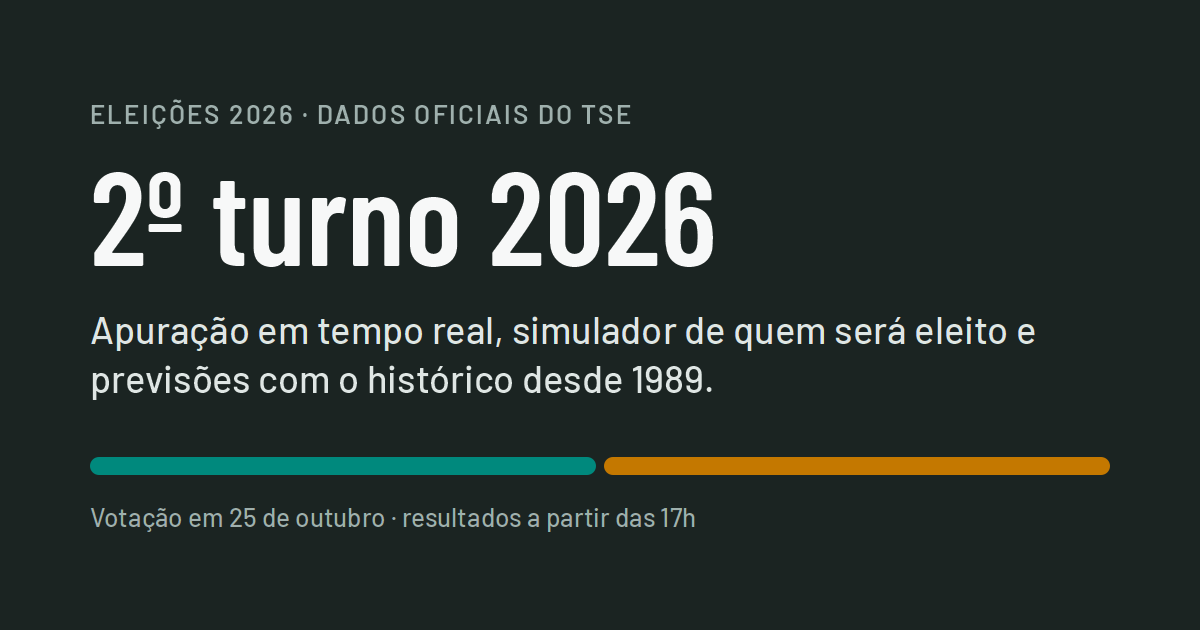
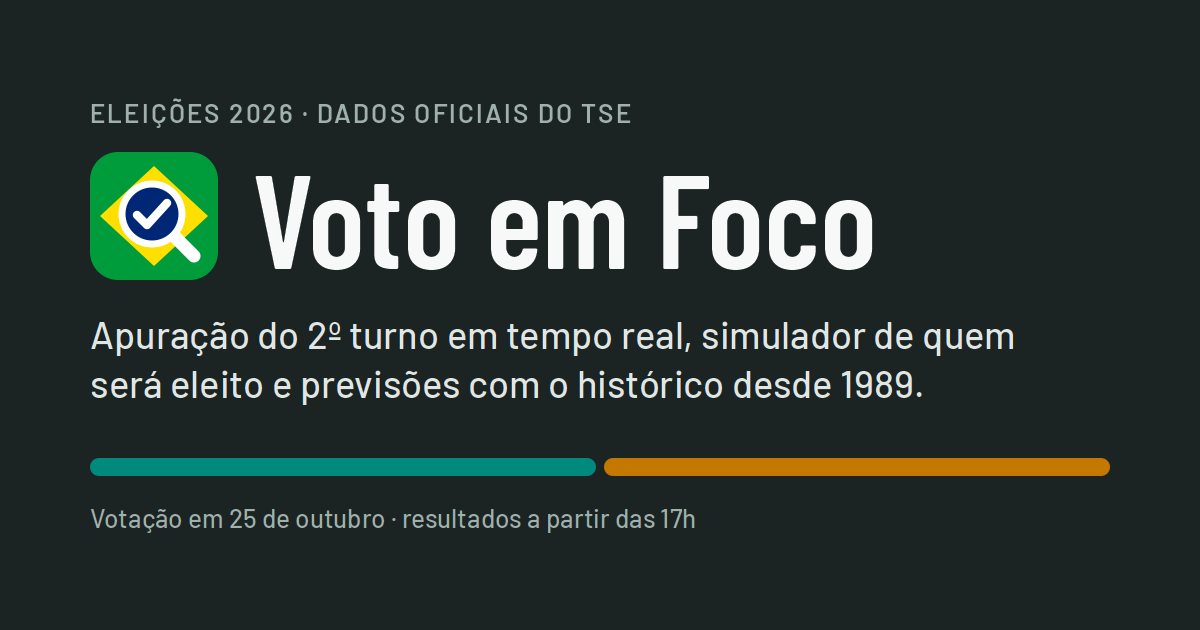
Nome Voto em Foco e ícone inspirado na bandeira (lupa com ✓ de voto)
Topo com ícone, aba, prévia de compartilhamento (og.png refeito), painel,
modo de teste, README, ícone da tela inicial do iPhone e serviço
voto-em-foco no Render. O ícone usa as cores da bandeira sem reproduzi-la.

diff --git a/public/index.html b/public/index.html
@@ -3,19 +3,20 @@
 <head>
   <meta charset="utf-8">
   <link rel="icon" href="/favicon.svg" type="image/svg+xml">
+  <link rel="apple-touch-icon" href="/icone-180.png">
   <meta name="viewport" content="width=device-width, initial-scale=1">
-  <title>2º turno 2026</title>
+  <title>Voto em Foco</title>
   <meta name="description" content="Apuração do 2º turno em tempo real, com dados oficiais do TSE, e simulador de quem será eleito.">
   <!-- Prévia ao compartilhar. {{URL}} vira o endereço público (PUBLIC_URL) quando o servidor entrega a página. -->
   <meta property="og:type" content="website">
   <meta property="og:locale" content="pt_BR">
-  <meta property="og:title" content="2º turno 2026: apuração em tempo real">
+  <meta property="og:title" content="Voto em Foco: apuração do 2º turno em tempo real">
   <meta property="og:description" content="Dados oficiais do TSE, simulador de quem será eleito e previsões com o histórico desde 1989.">
   <meta property="og:url" content="{{URL}}/">
   <meta property="og:image" content="{{URL}}/og.png">
   <meta property="og:image:width" content="1200">
   <meta property="og:image:height" content="630">
-  <meta property="og:image:alt" content="2º turno 2026: apuração em tempo real com dados oficiais do TSE">
+  <meta property="og:image:alt" content="Voto em Foco: apuração do 2º turno em tempo real com dados oficiais do TSE">
   <meta name="twitter:card" content="summary_large_image">
   <link rel="preload" href="/fonts/barlow-400-latin.woff2" as="font" type="font/woff2" crossorigin>
   <link rel="preload" href="/fonts/barlow-condensed-600-latin.woff2" as="font" type="font/woff2" crossorigin>
@@ -27,7 +28,7 @@
 
   <header class="topo">
     <div class="topo-linha">
-      <a class="nome-site" id="nome-site" href="#presidente">2º turno 2026</a>
+      <a class="nome-site" href="#presidente"><img src="/favicon.svg" alt="" width="34" height="34"><span id="nome-site">Voto em Foco</span></a>
       <nav class="vistas" aria-label="Seções">
         <a href="#presidente" data-vista="resultado">Resultado</a>
         <a href="#previsoes" data-vista="previsoes">Previsões</a>

diff --git a/public/styles.css b/public/styles.css
@@ -63,7 +63,8 @@ button, input, select { font: inherit; color: inherit; }
 .topo, main, .rodape { max-width: 1180px; margin: 0 auto; padding-left: var(--e4); padding-right: var(--e4); }
 .topo { padding-top: var(--e4); }
 .topo-linha { display: flex; align-items: center; gap: var(--e3); flex-wrap: wrap; }
-.nome-site { font: 600 30px/1 var(--num); text-decoration: none; margin-right: auto; }
+.nome-site { font: 600 30px/1 var(--num); text-decoration: none; margin-right: auto; display: inline-flex; align-items: center; gap: 10px; color: inherit; }
+.nome-site img { width: 34px; height: 34px; flex: none; }
 .vistas { display: flex; gap: var(--e3); }
 .vistas a { text-decoration: none; color: var(--tinta-2); font-weight: 500; padding: 6px 0; border-bottom: 2px solid transparent; }
 .vistas a[aria-current="page"] { color: var(--tinta); border-bottom-color: var(--tinta); }

diff --git a/src/server.js b/src/server.js
@@ -142,7 +142,7 @@ data: ${JSON.stringify(ev)}
     if (!cfg.modoTeste) return h;
     const aviso = 'Site em teste: o 1º turno é o real do TSE; o 2º turno é uma simulação sorteada, não é resultado nem previsão.';
     h = h.replace('<meta charset="utf-8">', '<meta charset="utf-8">\n  <meta name="robots" content="noindex, nofollow">')
-      .replace(/<title>[^<]*<\/title>/, '<title>TESTE · 2º turno simulado</title>')
+      .replace(/<title>[^<]*<\/title>/, '<title>TESTE · Voto em Foco (2º turno simulado)</title>')
       .replace(/(<meta name="description" content=")[^"]*/, `$1${aviso}`)
       .replace(/(<meta property="og:title" content=")[^"]*/, '$1TESTE · 2º turno simulado, não é resultado')
       .replace(/(<meta property="og:description" content=")[^"]*/, `$1${aviso}`)

diff --git a/public/admin.html b/public/admin.html
@@ -5,7 +5,7 @@
   <link rel="icon" href="/favicon.svg" type="image/svg+xml">
   <meta name="viewport" content="width=device-width, initial-scale=1">
   <meta name="robots" content="noindex, nofollow">
-  <title>Painel</title>
+  <title>Painel · Voto em Foco</title>
   <link rel="stylesheet" href="/styles.css">
   <link rel="stylesheet" href="/admin.css">
 </head>

diff --git a/public/js/marca.js b/public/js/marca.js
@@ -1,3 +1,3 @@
 // Nome do site — troque aqui (aparece no topo, na aba do navegador e ao compartilhar).
-export const NOME_SITE = '2º turno 2026';
+export const NOME_SITE = 'Voto em Foco';
 export const DESCRICAO = 'Apuração do 2º turno em tempo real, com dados oficiais do TSE, e simulador de quem será eleito.';

diff --git a/README.md b/README.md
@@ -1,4 +1,4 @@
-# 2º turno 2026: apuração do TSE em tempo real e simulador de quem será eleito
+# Voto em Foco: apuração do 2º turno de 2026 em tempo real, com dados do TSE, e simulador de quem será eleito
 
 Sistema web que lê os **arquivos oficiais de divulgação do TSE** e mostra a apuração em tempo real. O diferencial é o **simulador ao vivo**: durante a contagem, ele mostra quantos votos válidos ainda faltam e quanto cada candidato precisa receber deles para vencer. Você também define como acha que esse restante vai se dividir e vê na hora quem seria eleito.
 
@@ -13,7 +13,7 @@ Visual claro e limpo, em quatro abas: Resultado, Previsões, Notícias e Simulad
 - **Simulador**: "Quem será eleito?", em votos válidos.
 - **Modo telão** (`#telao`, link ao lado das disputas): para TV ou projetor. Números grandes, só votos oficiais já totalizados, passa sozinho pelo presidente e pelos 2º turnos de governador a cada 12 s (setas do teclado trocam), relógio de Brasília e botão de tela cheia. No modo de teste, o aviso de 2º turno simulado continua na tela.
 
-O nome do site fica em `public/js/marca.js`. Hoje está "2º turno 2026", um nome provisório.
+O nome do site, **Voto em Foco**, fica em `public/js/marca.js` (e no `<title>`/tags de `public/index.html`). O ícone (`public/favicon.svg`) é inspirado nas cores da bandeira, com uma lupa e um ✓ de voto; não reproduz a bandeira (Lei 5.700/71).
 
 ## Como rodar
 
